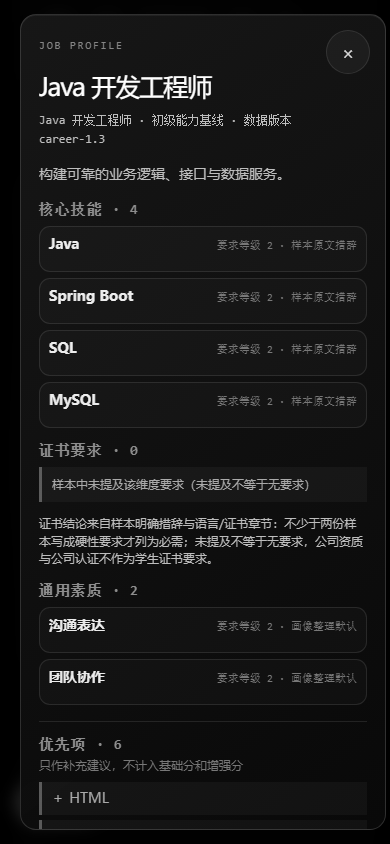
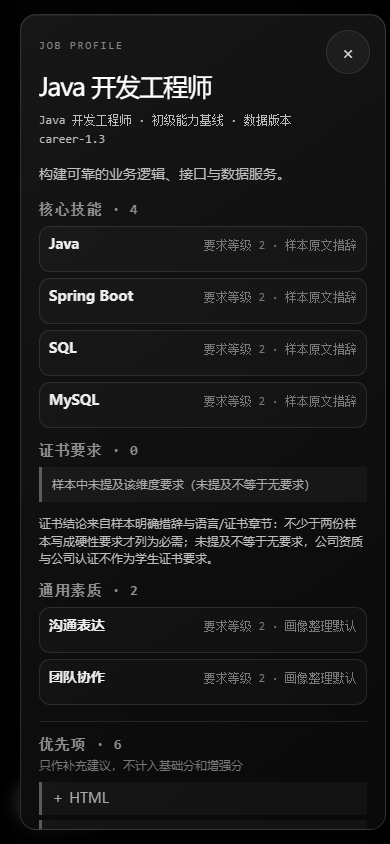
fix(frontend): complete mobile detail reading scale

diff --git a/frontend/src/styles/shared-overrides.css b/frontend/src/styles/shared-overrides.css
@@ -461,7 +461,6 @@
   .matches-stitch-hero h2:not(.empty-title) { font-size: clamp(52px, 15vw, 76px); }
   .jobs-stitch .modal { width: calc(100vw - 24px); padding: 24px 18px 18px; border-radius: 16px; }
   .jobs-stitch .job-detail h3 { font-size: 25px; }
-  .jobs-stitch .job-detail-head { padding-right: 48px; }
   .jobs-stitch .job-detail-items { grid-template-columns: 1fr; }
   .jobs-stitch .job-detail-aside { padding-top: 14px; }
   .jobs-stitch .detail-actions { justify-content: stretch; }
@@ -500,6 +499,7 @@
   .jobs-stitch .item-block h4 { font-size: 14px; }
   .jobs-stitch .job-detail-items .req-item summary { min-height: 44px; font-size: 14px !important; }
   .jobs-stitch :is(.detail-meta, .req-basis, .soft-note, .req-quote, .req-quote cite, .job-detail-aside h4 span, .job-detail-samples .sample-row) { font-size: 12px; }
+  .jobs-stitch .job-detail .mono { font-size: 12px; }
   .matrix-action { min-width: 44px; min-height: 44px; font-size: 14px; }
 }
 

diff --git a/docs/工作日志.md b/docs/工作日志.md
@@ -12,7 +12,7 @@
 - React、React DOM 及其类型定义已升级到 19.3.0；Vite 已升级到 8.3.1，@vitejs/plugin-react 已升级到 6.1.1；ESLint 已升级到 10.11.0，Vitest 已升级到 5.0.3。前端与浏览器 CI 使用 Node 22，README 要求 Node 22.12.0 或更高版本。
 - 虚构 TXT、DOCX、学生 JSON 与可选 PDF 均由 `scripts/make_samples.py` 重建；PDF 仅依赖独立锁定的 `requirements.samples.txt`，不进入应用运行依赖。
 - 前端样式已按原级联顺序拆分为 `frontend/src/styles/` 下的 12 个模块，`styles.css` 只保留导入清单；界面使用系统字体栈，不再请求 Google Fonts。浏览器 UI 回归会检查无远程字体资源及 `prefers-reduced-motion`。
-- UI 四项改进已实现：岗位目录与个性化推荐的措辞已区分，优先项明确不计入基础分和增强分；匹配页提供紧凑概览、提前候选切换、页内目录和失效刷新；流程导航直接显示名称、状态与下一步。手机端正文 14–16px、辅助说明至少 12px、主要触控区域至少 44px，主导航固定在视口底部，资料操作区位于内容流；岗位详情支持键盘焦点循环与关闭后恢复。
+- UI 四项改进已实现：岗位目录与个性化推荐的措辞已区分，优先项明确不计入基础分和增强分；匹配页提供紧凑概览、提前候选切换、页内目录和失效刷新；流程导航直接显示名称、状态与下一步。手机端正文 14–16px、辅助说明至少 12px、主要触控区域至少 44px，主导航固定在视口底部，资料操作区位于内容流；岗位详情支持键盘焦点循环与关闭后恢复。字号回归直接覆盖等级与样本日期等子元素，防止显式小字号绕过父级检查。
 - 版本标签：`v1.0.0`。
 - 浏览器测试 Playwright 已精确升级到 1.63.0；PR #47 三项 CI 通过并已合并，遗留 Dependabot PR #34 已关闭。Dependabot 安全告警为 0。
 - 当前验收汇总为 `docs/acceptance/项目稳定性验收.md`；旧后端日志与 2026-09-30 流程截图仅作历史证据。数据连续两次构建哈希相同，源 XLS 不变；三种简历样例与五份学生 JSON 在忽略目录重建验证通过。
@@ -40,6 +40,11 @@
 - `useCareerSession()` 已收敛 App 的跨页面会话编排；首次 axe 扫描登记的中等语义问题已修复，并由针对性回归断言保护。轻量接口契约检查只在前后端字段开始频繁漂移时引入。
 
 ## 日志
+
+### 2026-10-01 补齐手机岗位详情字号验收
+
+- 独立 Spec 审查发现岗位详情的等级说明与样本日期仍受全局 mono 的 11px 显式字号控制。新增子元素断言后真实失败；窄屏详情补到 12px 后通过，桌面字号保持原状，验收截图已刷新。axe 不检查最小字号，因此未将这个遗漏记作 axe 失败。
+- 同时处理 Standards 审查的两项非阻塞重复代码建议：移除被后置窄屏规则覆盖的 padding 声明，复用资料和路径操作区滚动到底后的导航遮挡断言。TypeScript/Vite 构建、UI 回归和 18 次 axe 扫描（0 项违规）重新通过；此前完整验证的 Python 332 项、Vitest 49 项与 17 浏览器场景仍有效。
 
 ### 2026-10-01 改善手机端阅读与操作
 

diff --git a/docs/acceptance/项目稳定性验收.md b/docs/acceptance/项目稳定性验收.md
@@ -40,6 +40,8 @@
 
 手机基线的主导航按钮为 33px、资料操作按钮为 38px，目标岗位选择为 19px。主导航定位与设置点击、岗位详情关闭恢复焦点的断言均在修复前真实失败、修复后通过。扩大 axe 到双尺寸时真实发现手机导航文字对比度为 4.24:1，调整颜色后 18 次扫描全部无违规；个人报告空状态标题的提亮来自人工截图检查，不是 axe 失败证据。
 
+独立审查另发现等级说明与样本日期子元素仍有显式 11px 字号，原父元素断言未覆盖它们。新增岗位详情 mono 子元素断言后真实失败，窄屏补为 12px 后 UI 回归通过；重新构建并完成 18 次零违规 axe 扫描，岗位详情截图已更新。最小字号由 UI 回归验证，不冒充 axe 的检查范围。资料与路径的底部操作区断言现共用同一检查，桌面匹配概览截图哈希仍与改动前完全相同。
+
 smoke 回归共 12 项通过；修复前复现 5 项失败。增强分、两个展示分或输入版本等五项事实任一漂移会使 smoke 退出 1；两边共同缺失必填事实也不能通过。`name_edit` 标记 `not_applicable`，前端姓名编辑与刷新由浏览器验收，API 脚本不冒充该证据。浏览器在无姓名简历导入完成后填写会话姓名，明确断言刷新前姓名非空、草稿不含姓名，刷新后姓名为空且其他资料与路径恢复；旧测试顺序在新增非空断言下真实失败，修正后的 17 个场景全部通过。
 
 ## 数据与样例复现
